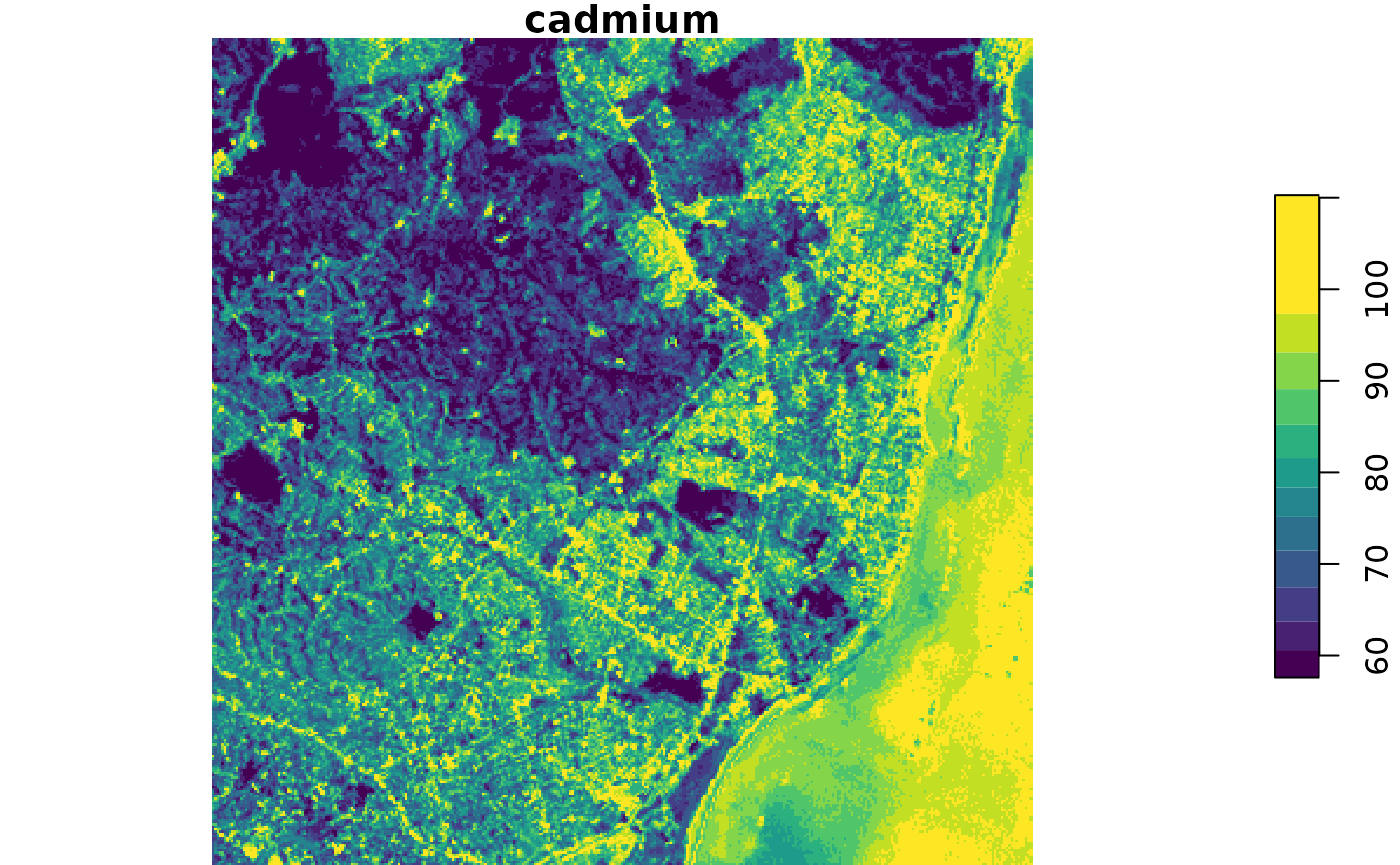
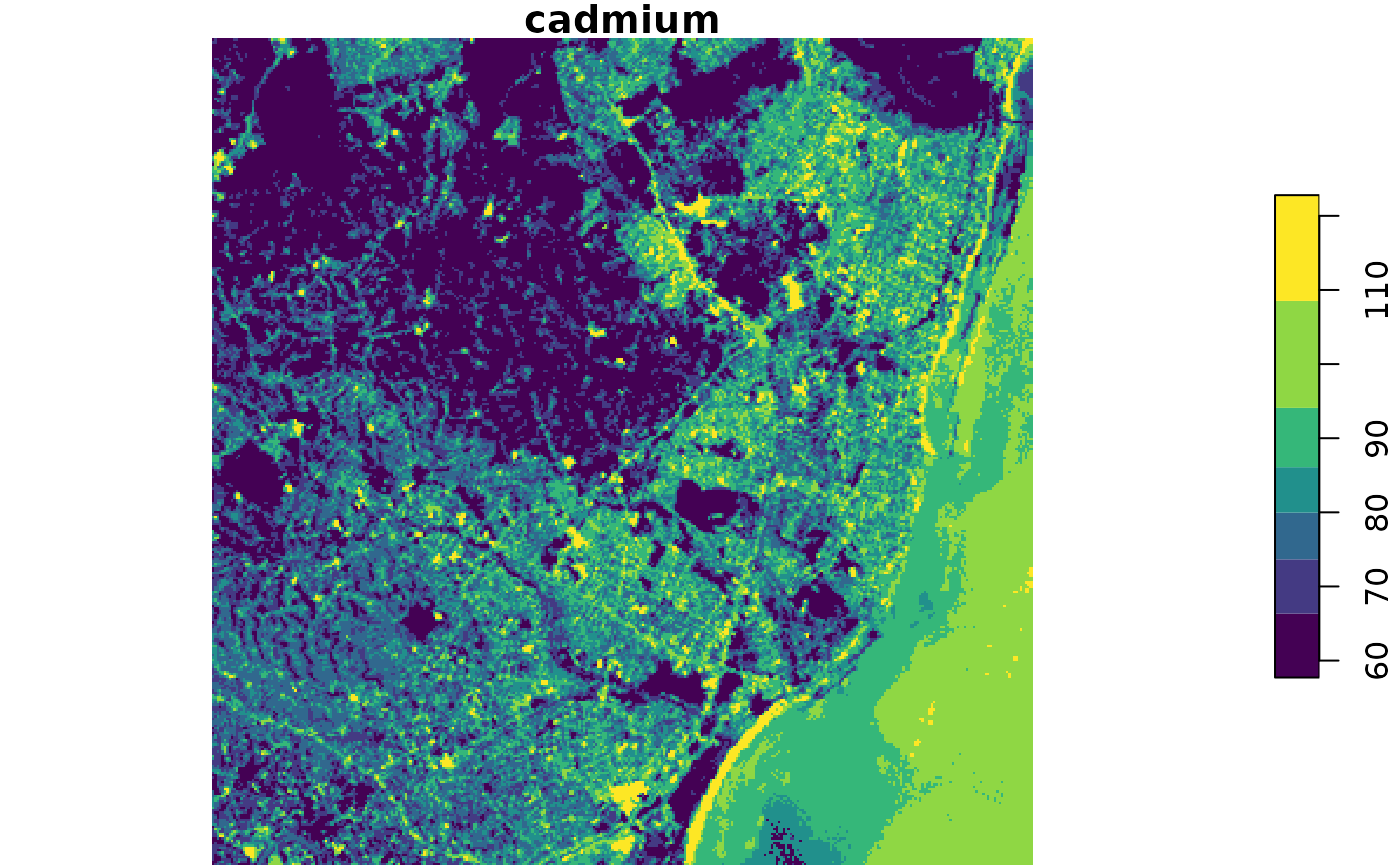
Deploy from Github Actions build 1205475930 [ci skip]
Build URL: https://github.com/mlr-org/mlr3spatial/actions/runs/1205475930
Commit: a5f3495eeb3ed630dc103788697df0b2a80bafa2

diff --git a/articles/mlr3spatial.html b/articles/mlr3spatial.html
@@ -124,30 +124,26 @@
 <div id="introduction" class="section level2">
 <h2 class="hasAnchor">
 <a href="#introduction" class="anchor"></a>Introduction</h2>
-<p>{mlr3spatial} adds [mlr3::DataBackend]s for spatial classes ([terra::SpatRaster], [raster::brick], [sf::sf]). In addition, direct predictions to objects of these classes are supported. The direct return is a [mlr3::Prediction] object as for all other <code><a href="https://rdrr.io/r/stats/predict.html">predict()</a></code> returns in the {mlr3} ecosystem. Besides, the respective spatial objects can be written to disk and loaded into the session for further analysis.</p>
+<p>{mlr3spatial} adds [mlr3::DataBackend]s for spatial classes ([terra::SpatRaster], [raster::brick], [stars::stars]). The package is capable of making predictions to objects of these classes via <code>predict_raster()</code>. The return is a spatial object in the class specified in argument <code>format</code>.</p>
 <p>Essentially, {mlr3spatial} takes of the burden of converting spatial objects into a plain <code>data.table</code> and then coercing the predicted values back into the spatial object while making sure to not loose the spatial reference.</p>
-<p>There is one more goodie in the bag. Thanks to mlr3’s ability to predict in parallel with any learner, {mlr3spatial} prediction can also make use of future-based parallelization and speed up the predictions of spatial objects. Often enough, spatial predictions are quite large (in the millions of values) and efficient parallelization can save some time here. See the vignette on <a href="https://mlr3spatial.mlr-org.com/articles/benchmark.html">“Benchmarking parallel predictions”</a> for details.</p>
-<p>In the following, we showcase a step-by-step example how to handle a multi-layer raster object from package {terra}.</p>
+<p>There are some more goodies in the bag though:</p>
+<ul>
+<li>Thanks to mlr3’s ability to predict in parallel with any learner, {mlr3spatial} predictions can also make use of <strong>future-based parallelization</strong> and speed up the predictions of spatial objects. Often enough, spatial predictions are quite large (in the millions of values) and efficient parallelization can save some time here. See the vignette on <a href="https://mlr3spatial.mlr-org.com/articles/benchmark.html">“Benchmarking parallel predictions”</a> for details.</li>
+<li>
+<code>predict_raster()</code> can be executed in chunks (argument <code>chunksize</code>), making it possible to <strong>execute predictions on large raster files</strong> on consumer grade machines. This chunked execution comes with some overhead compared to execution in one block since the prediction heuristic is executed multiple times and the results need to be merged in the end.</li>
+</ul>
+<p>In the following, we showcase a step-by-step example how to handle a multi-layer raster object from package {stars}.</p>
 </div>
-<div id="use-case---stars-objects" class="section level2">
+<div id="use-case---landsat7-data-as-stars-object" class="section level2">
 <h2 class="hasAnchor">
-<a href="#use-case---stars-objects" class="anchor"></a>Use Case - {stars} objects</h2>
+<a href="#use-case---landsat7-data-as-stars-object" class="anchor"></a>Use Case - Landsat7 data as {stars} object</h2>
 <div id="data-preparation" class="section level3">
 <h3 class="hasAnchor">
 <a href="#data-preparation" class="anchor"></a>Data Preparation</h3>
-<p>Spatial objects are not included as built-in datasets into the package due to their size. Some helper functions like <code><a href="../reference/demo_stack_spatraster.html">demo_stack_spatraster()</a></code> are available to create such.</p>
-<p>The <code>SpatRaster</code> consists of 500 columns and rows and contains five layers with each layer representing a variable.</p>
-<p>The <code>"Error in (function (x)  : attempt to apply non-function"</code> error can be ignored - this is an internal issue of the {terra} package during object creation and does not affect usage.</p>
 <div class="sourceCode" id="cb1"><pre class="downlit sourceCode r">
 <code class="sourceCode R"><span class="kw"><a href="https://rdrr.io/r/base/library.html">library</a></span><span class="op">(</span><span class="st"><a href="https://mlr3.mlr-org.com">"mlr3"</a></span><span class="op">)</span>
-<span class="kw"><a href="https://rdrr.io/r/base/library.html">library</a></span><span class="op">(</span><span class="st"><a href="https://mlr3spatial.mlr-org.com">"mlr3spatial"</a></span><span class="op">)</span>
-<span class="kw"><a href="https://rdrr.io/r/base/library.html">library</a></span><span class="op">(</span><span class="st"><a href="https://mlr3learners.mlr-org.com">"mlr3learners"</a></span><span class="op">)</span>
-<span class="kw"><a href="https://rdrr.io/r/base/library.html">library</a></span><span class="op">(</span><span class="st"><a href="https://r-spatial.github.io/stars/">"stars"</a></span><span class="op">)</span>
-<span class="co">#&gt; Loading required package: abind</span>
-<span class="co">#&gt; Loading required package: sf</span>
-<span class="co">#&gt; Linking to GEOS 3.8.0, GDAL 3.0.4, PROJ 6.3.1</span>
-<span class="kw"><a href="https://rdrr.io/r/base/library.html">library</a></span><span class="op">(</span><span class="st">"e1071"</span><span class="op">)</span></code></pre></div>
-<p>First, a {mlr3} classification <code>task</code> is created and a SVM learner is fitted with randomly sampled raster cells.</p>
+<span class="kw"><a href="https://rdrr.io/r/base/library.html">library</a></span><span class="op">(</span><span class="st"><a href="https://mlr3spatial.mlr-org.com">"mlr3spatial"</a></span><span class="op">)</span></code></pre></div>
+<p>First, the TIFF files is read via <code><a href="https://r-spatial.github.io/stars/reference/read_stars.html">stars::read_stars()</a></code> and put into a <code>DataBackendSpatial</code>. The DataBackend is then used to create a regression task with the response being <code>layer.1</code>.</p>
 <div class="sourceCode" id="cb2"><pre class="downlit sourceCode r">
 <code class="sourceCode R"><span class="va">tif</span> <span class="op">=</span> <span class="fu"><a href="https://rdrr.io/r/base/system.file.html">system.file</a></span><span class="op">(</span><span class="st">"tif/L7_ETMs.tif"</span>, package <span class="op">=</span> <span class="st">"stars"</span><span class="op">)</span>
 <span class="va">stack</span> <span class="op">=</span> <span class="fu">stars</span><span class="fu">::</span><span class="fu"><a href="https://r-spatial.github.io/stars/reference/read_stars.html">read_stars</a></span><span class="op">(</span><span class="va">tif</span><span class="op">)</span>
@@ -161,21 +157,21 @@
 <span class="co">#&gt; * Properties: -</span>
 <span class="co">#&gt; * Features (5):</span>
 <span class="co">#&gt;   - dbl (5): layer.2, layer.3, layer.4, layer.5, layer.6</span></code></pre></div>
-<p>For large raster files with millions of values it helps to predict in parallel. To enable this, set <code>learner$parallel_predict = TRUE</code> and initiate a parallel plan via {future}. This required {mlr3} &gt;= 0.12.0.</p>
+<p>For large raster files with millions of values it helps to predict in parallel. To enable this, set <code>learner$parallel_predict = TRUE</code> and initiate a parallel plan via {future}. Since this is only an example, parallelization is not enabled here. Here we will use a simple regression tree as an example learner. In practice you might want to use a different learner - you can find an overview of available learners <a href="https://mlr3extralearners.mlr-org.com/articles/learners/list_learners.html">here</a>.</p>
 <div class="sourceCode" id="cb3"><pre class="downlit sourceCode r">
-<code class="sourceCode R"><span class="va">learner_svm</span> <span class="op">=</span> <span class="fu"><a href="https://mlr3.mlr-org.com/reference/mlr_sugar.html">lrn</a></span><span class="op">(</span><span class="st">"regr.svm"</span><span class="op">)</span>
+<code class="sourceCode R"><span class="va">learner</span> <span class="op">=</span> <span class="fu"><a href="https://mlr3.mlr-org.com/reference/mlr_sugar.html">lrn</a></span><span class="op">(</span><span class="st">"regr.rpart"</span><span class="op">)</span>
 <span class="fu"><a href="https://rdrr.io/r/base/Random.html">set.seed</a></span><span class="op">(</span><span class="fl">42</span><span class="op">)</span>
 <span class="va">row_ids</span> <span class="op">=</span> <span class="fu"><a href="https://rdrr.io/r/base/sample.html">sample</a></span><span class="op">(</span><span class="fl">1</span><span class="op">:</span><span class="va">task</span><span class="op">$</span><span class="va">nrow</span>, <span class="fl">500</span><span class="op">)</span>
-<span class="va">learner_svm</span><span class="op">$</span><span class="fu">train</span><span class="op">(</span><span class="va">task</span>, row_ids <span class="op">=</span> <span class="va">row_ids</span><span class="op">)</span>
+<span class="va">learner</span><span class="op">$</span><span class="fu">train</span><span class="op">(</span><span class="va">task</span>, row_ids <span class="op">=</span> <span class="va">row_ids</span><span class="op">)</span>
 
-<span class="fu"><a href="https://rdrr.io/r/base/print.html">print</a></span><span class="op">(</span><span class="va">learner_svm</span><span class="op">)</span>
-<span class="co">#&gt; &lt;LearnerRegrSVM:regr.svm&gt;</span>
-<span class="co">#&gt; * Model: svm</span>
-<span class="co">#&gt; * Parameters: list()</span>
-<span class="co">#&gt; * Packages: e1071</span>
+<span class="fu"><a href="https://rdrr.io/r/base/print.html">print</a></span><span class="op">(</span><span class="va">learner</span><span class="op">)</span>
+<span class="co">#&gt; &lt;LearnerRegrRpart:regr.rpart&gt;</span>
+<span class="co">#&gt; * Model: rpart</span>
+<span class="co">#&gt; * Parameters: xval=0</span>
+<span class="co">#&gt; * Packages: rpart</span>
 <span class="co">#&gt; * Predict Type: response</span>
-<span class="co">#&gt; * Feature types: logical, integer, numeric</span>
-<span class="co">#&gt; * Properties: -</span></code></pre></div>
+<span class="co">#&gt; * Feature types: logical, integer, numeric, factor, ordered</span>
+<span class="co">#&gt; * Properties: importance, missings, selected_features, weights</span></code></pre></div>
 </div>
 <div id="prediction" class="section level3">
 <h3 class="hasAnchor">
@@ -186,7 +182,7 @@
 <h4 class="hasAnchor">
 <a href="#mlr3spatial" class="anchor"></a>mlr3spatial</h4>
 <div class="sourceCode" id="cb4"><pre class="downlit sourceCode r">
-<code class="sourceCode R"><span class="va">ras</span> <span class="op">=</span> <span class="fu"><a href="../reference/predict_spatial.html">predict_spatial</a></span><span class="op">(</span><span class="va">task</span>, <span class="va">learner_svm</span>, format <span class="op">=</span> <span class="st">"stars"</span><span class="op">)</span>
+<code class="sourceCode R"><span class="va">ras</span> <span class="op">=</span> <span class="fu"><a href="../reference/predict_spatial.html">predict_spatial</a></span><span class="op">(</span><span class="va">task</span>, <span class="va">learner</span>, format <span class="op">=</span> <span class="st">"stars"</span><span class="op">)</span>
 <span class="co">#&gt; Warning in showSRID(SRS_string, format = "PROJ", multiline = "NO", prefer_proj =</span>
 <span class="co">#&gt; prefer_proj): Discarded datum unknown in Proj4 definition</span>
 <span class="fu"><a href="https://rdrr.io/r/base/names.html">names</a></span><span class="op">(</span><span class="va">ras</span><span class="op">)</span> <span class="op">=</span> <span class="st">"cadmium"</span>
@@ -194,8 +190,8 @@
 <span class="fu"><a href="https://rdrr.io/r/base/print.html">print</a></span><span class="op">(</span><span class="va">ras</span><span class="op">)</span>
 <span class="co">#&gt; stars object with 2 dimensions and 1 attribute</span>
 <span class="co">#&gt; attribute(s):</span>
-<span class="co">#&gt;              Min.  1st Qu.   Median     Mean  3rd Qu.     Max.</span>
-<span class="co">#&gt; cadmium  57.59748 67.45409 78.34238 78.61442 89.09275 110.2793</span>
+<span class="co">#&gt;             Min.  1st Qu.   Median     Mean 3rd Qu.     Max.</span>
+<span class="co">#&gt; cadmium  62.3629 70.30233 77.01695 79.05135 89.2809 118.1429</span>
 <span class="co">#&gt; dimension(s):</span>
 <span class="co">#&gt;   from  to  offset delta                       refsys point values x/y</span>
 <span class="co">#&gt; x    1 349  288776  28.5 UTM Zone 25, Southern Hem... FALSE   NULL [x]</span>
@@ -207,12 +203,12 @@
 <p>Since the layers are merged in a {stars} object, one first need to split them up and convert them into a regular data.table. Next, the column names need to be adjusted to match the ones of the training data. Afterwards, the <code>data.frame</code> generic of <code><a href="https://rdrr.io/r/stats/predict.html">predict()</a></code> can be called. Finally, the predictions need to be injected into a stars object again.</p>
 <p>(All of these steps are happening internally in {mlr3spatial}).</p>
 <div class="sourceCode" id="cb5"><pre class="downlit sourceCode r">
-<code class="sourceCode R"><span class="va">svm_e1071</span> <span class="op">=</span> <span class="fu">e1071</span><span class="fu">::</span><span class="fu"><a href="https://rdrr.io/pkg/e1071/man/svm.html">svm</a></span><span class="op">(</span><span class="va">layer.1</span> <span class="op">~</span> <span class="va">.</span>, data <span class="op">=</span> <span class="va">task</span><span class="op">$</span><span class="fu">data</span><span class="op">(</span>rows <span class="op">=</span> <span class="va">row_ids</span><span class="op">)</span><span class="op">)</span>
+<code class="sourceCode R"><span class="va">rpart_learner</span> <span class="op">=</span> <span class="fu">rpart</span><span class="fu">::</span><span class="fu"><a href="https://rdrr.io/pkg/rpart/man/rpart.html">rpart</a></span><span class="op">(</span><span class="va">layer.1</span> <span class="op">~</span> <span class="va">.</span>, data <span class="op">=</span> <span class="va">task</span><span class="op">$</span><span class="fu">data</span><span class="op">(</span>rows <span class="op">=</span> <span class="va">row_ids</span><span class="op">)</span><span class="op">)</span>
 <span class="va">stars_stack</span> <span class="op">=</span> <span class="fu"><a href="https://Rdatatable.gitlab.io/data.table/reference/as.data.table.html">as.data.table</a></span><span class="op">(</span><span class="fu"><a href="https://r-spatial.github.io/stars/reference/merge.html">split</a></span><span class="op">(</span><span class="va">stack</span>, <span class="st">"band"</span><span class="op">)</span><span class="op">)</span>
 <span class="va">stars_stack</span><span class="op">[</span>, <span class="fu"><a href="https://rdrr.io/r/base/c.html">c</a></span><span class="op">(</span><span class="st">"x"</span>, <span class="st">"y"</span>, <span class="st">"X1"</span><span class="op">)</span><span class="op">]</span> <span class="op">=</span> <span class="cn">NULL</span>
 <span class="fu"><a href="https://rdrr.io/r/base/colnames.html">colnames</a></span><span class="op">(</span><span class="va">stars_stack</span><span class="op">)</span> <span class="op">=</span> <span class="va">task</span><span class="op">$</span><span class="va">feature_names</span>
 
-<span class="va">stars_pred</span> <span class="op">=</span> <span class="fu"><a href="https://rdrr.io/r/stats/predict.html">predict</a></span><span class="op">(</span><span class="va">svm_e1071</span>, <span class="va">stars_stack</span><span class="op">)</span>
+<span class="va">stars_pred</span> <span class="op">=</span> <span class="fu"><a href="https://rdrr.io/r/stats/predict.html">predict</a></span><span class="op">(</span><span class="va">rpart_learner</span>, <span class="va">stars_stack</span><span class="op">)</span>
 
 <span class="co"># subset stars object to one band only</span>
 <span class="va">stars_pred_ras</span> <span class="op">=</span> <span class="va">stack</span><span class="op">[</span>, , , <span class="fl">1</span><span class="op">]</span>
@@ -224,8 +220,8 @@
 <span class="fu"><a href="https://rdrr.io/r/base/print.html">print</a></span><span class="op">(</span><span class="va">stars_pred_ras</span><span class="op">)</span>
 <span class="co">#&gt; stars object with 3 dimensions and 1 attribute</span>
 <span class="co">#&gt; attribute(s):</span>
-<span class="co">#&gt;           Min.  1st Qu.   Median     Mean  3rd Qu.     Max.</span>
-<span class="co">#&gt; pred  57.59748 67.45409 78.34238 78.61442 89.09275 110.2793</span>
+<span class="co">#&gt;          Min.  1st Qu.   Median     Mean 3rd Qu.     Max.</span>
+<span class="co">#&gt; pred  62.3629 70.30233 77.01695 79.05135 89.2809 118.1429</span>
 <span class="co">#&gt; dimension(s):</span>
 <span class="co">#&gt;      from  to  offset delta                       refsys point values x/y</span>
 <span class="co">#&gt; x       1 349  288776  28.5 UTM Zone 25, Southern Hem... FALSE   NULL [x]</span>
@@ -244,11 +240,10 @@
 <div id="visualization" class="section level3">
 <h3 class="hasAnchor">
 <a href="#visualization" class="anchor"></a>Visualization</h3>
-<p>Finally we can plot the predictions. The color vector is extract from the viridis color palette via <code><a href="https://rdrr.io/r/base/dput.html">dput(viridis::viridis_pal()(12))</a></code>.</p>
+<p>Finally we can plot the predictions. The color vector is extract from the viridis color palette via <code><a href="https://rdrr.io/r/base/dput.html">dput(viridis::viridis_pal()(7))</a></code>.</p>
 <div class="sourceCode" id="cb7"><pre class="downlit sourceCode r">
-<code class="sourceCode R"><span class="fu"><a href="https://r-spatial.github.io/stars/reference/plot.html">plot</a></span><span class="op">(</span><span class="va">ras</span>, col <span class="op">=</span> <span class="fu"><a href="https://rdrr.io/r/base/c.html">c</a></span><span class="op">(</span><span class="st">"#440154FF"</span>, <span class="st">"#482173FF"</span>, <span class="st">"#433E85FF"</span>, <span class="st">"#38598CFF"</span>, <span class="st">"#2D708EFF"</span>,
-  <span class="st">"#25858EFF"</span>, <span class="st">"#1E9B8AFF"</span>, <span class="st">"#2BB07FFF"</span>, <span class="st">"#51C56AFF"</span>, <span class="st">"#85D54AFF"</span>,
-  <span class="st">"#C2DF23FF"</span>, <span class="st">"#FDE725FF"</span><span class="op">)</span><span class="op">)</span></code></pre></div>
+<code class="sourceCode R"><span class="fu"><a href="https://r-spatial.github.io/stars/reference/plot.html">plot</a></span><span class="op">(</span><span class="va">ras</span>, col <span class="op">=</span> <span class="fu"><a href="https://rdrr.io/r/base/c.html">c</a></span><span class="op">(</span><span class="st">"#440154FF"</span>, <span class="st">"#443A83FF"</span>, <span class="st">"#31688EFF"</span>, <span class="st">"#21908CFF"</span>, <span class="st">"#35B779FF"</span>,
+  <span class="st">"#8FD744FF"</span>, <span class="st">"#FDE725FF"</span><span class="op">)</span><span class="op">)</span></code></pre></div>
 <p><img src="mlr3spatial_files/figure-html/unnamed-chunk-8-1.png" width="700"></p>
 </div>
 </div>

diff --git a/reference/demo_stack_spatraster.html b/reference/demo_stack_spatraster.html
@@ -189,8 +189,8 @@ Number of layers.</p></td>
 #&gt; resolution  : 0.001265823, 0.001265823  (x, y)
 #&gt; extent      : 0, 1, 0, 1  (xmin, xmax, ymin, ymax)
 #&gt; coord. ref. : +proj=longlat +datum=WGS84 +no_defs 
-#&gt; sources     : file3a677ac243ac.tif  
-#&gt;               file3a671a2e87e3.tif  
+#&gt; sources     : file3b074c96924d.tif  
+#&gt;               file3b0779706c2f.tif  
 #&gt; names       :       x_1,         y 
 #&gt; min values  : -4.589538,  0.000000 
 #&gt; max values  :  5.507922,  1.000000 </div></pre>

diff --git a/reference/predict_spatial.html b/reference/predict_spatial.html
@@ -228,7 +228,7 @@ users, <code>plan(future.callr::callr)</code> might be an alternative.</p>
 #&gt; resolution  : 0.004484305, 0.004484305  (x, y)
 #&gt; extent      : 0, 1, 0, 1  (xmin, xmax, ymin, ymax)
 #&gt; coord. ref. : +proj=longlat +datum=WGS84 +no_defs 
-#&gt; source      : file3a67a118746.tif 
+#&gt; source      : file3b07488259ad.tif 
 #&gt; name        : lyr.1 
 #&gt; min value   :     1 
 #&gt; max value   :     1 </div></pre>
